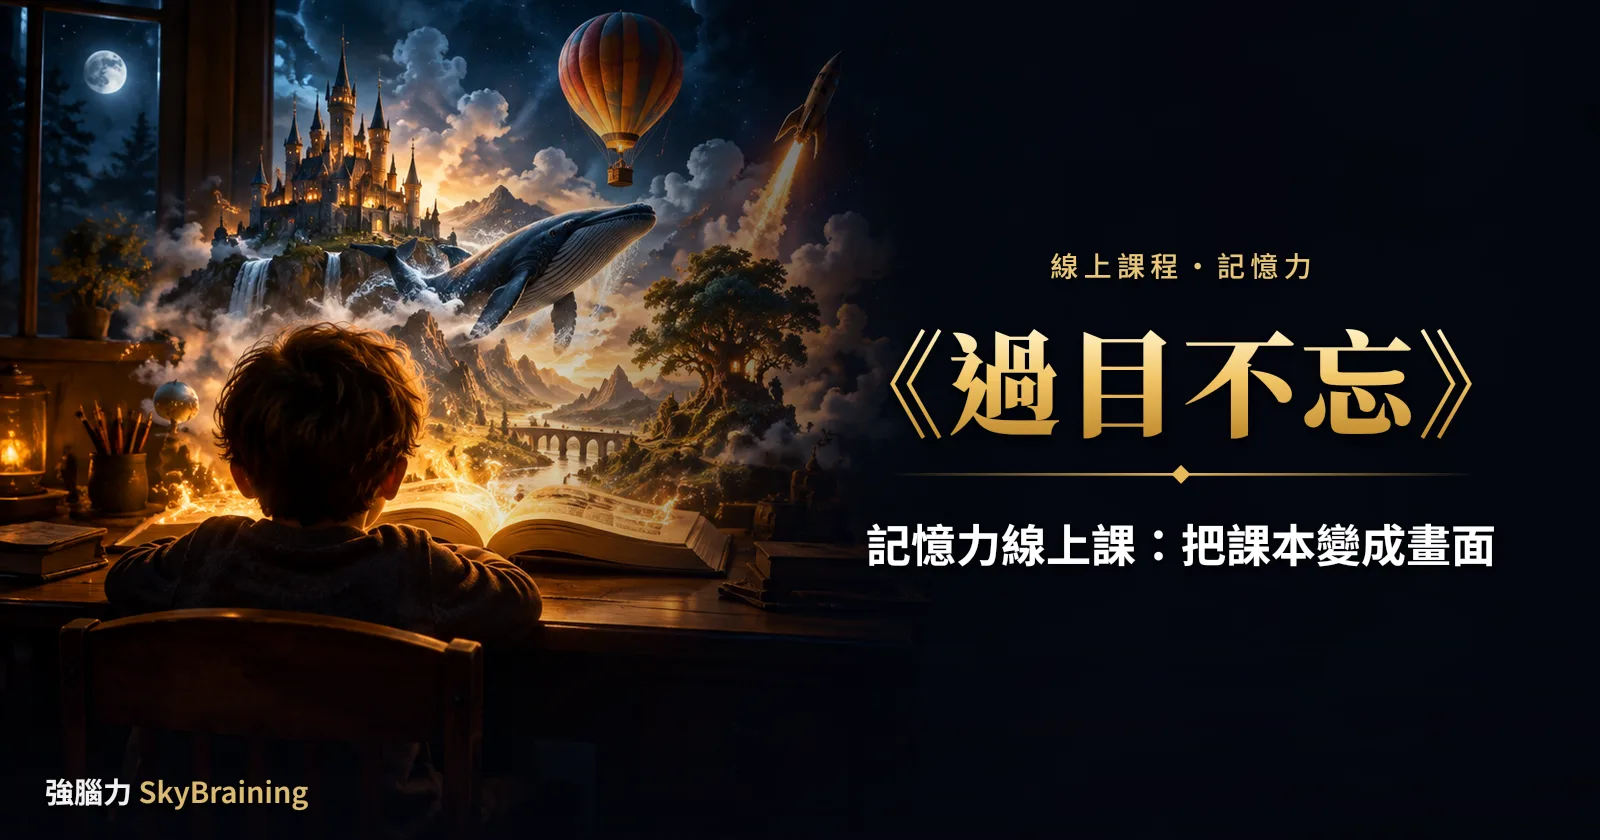
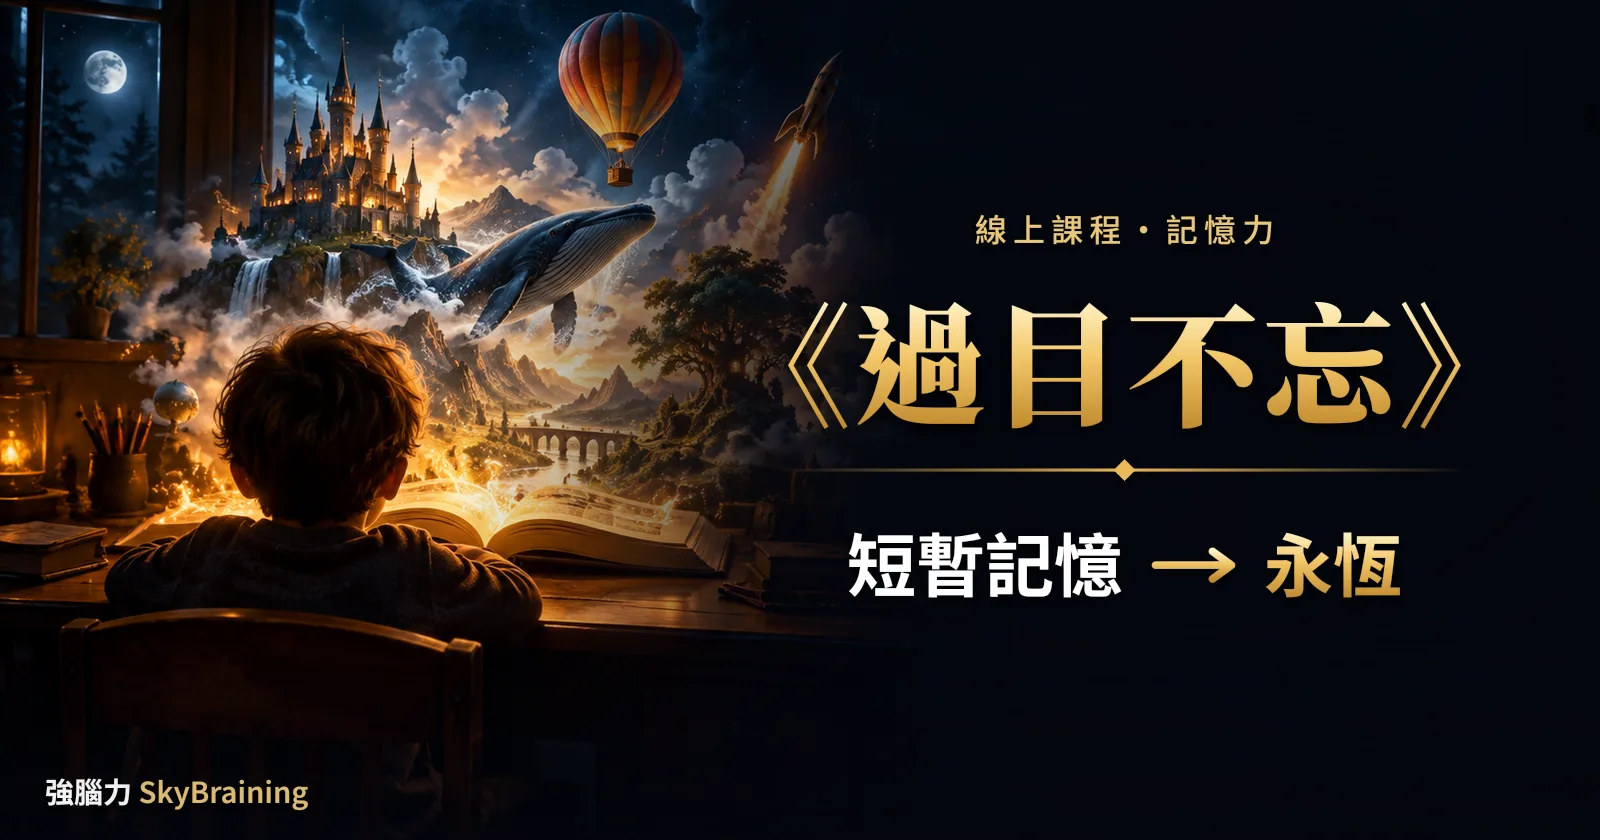
三張課程封面改副標並放大文字（短暫記憶→永恆／知識擴張→10 倍／大腦潛能→全開）

diff --git a/course-thinking.html b/course-thinking.html
@@ -293,7 +293,7 @@
       <a class="btn-main" href="free.html">你先免費上一堂《10 倍聯想力》</a>
     </div>
     <div class="trust">適合 10 歲以上到 35 歲・買斷永久觀看・信用卡・Apple&nbsp;Pay・電子發票</div>
-    <figure class="banner"><img src="cover-course-thinking.webp" width="1600" height="840" alt="心智圖線上課程《瘋狂心智圖》封面：把知識連成一張網" loading="lazy" decoding="async"></figure>
+    <figure class="banner"><img src="cover-course-thinking.webp" width="1600" height="840" alt="心智圖線上課程《瘋狂心智圖》封面：知識擴張 → 10 倍" loading="lazy" decoding="async"></figure>
   </div>
 </header>
 
